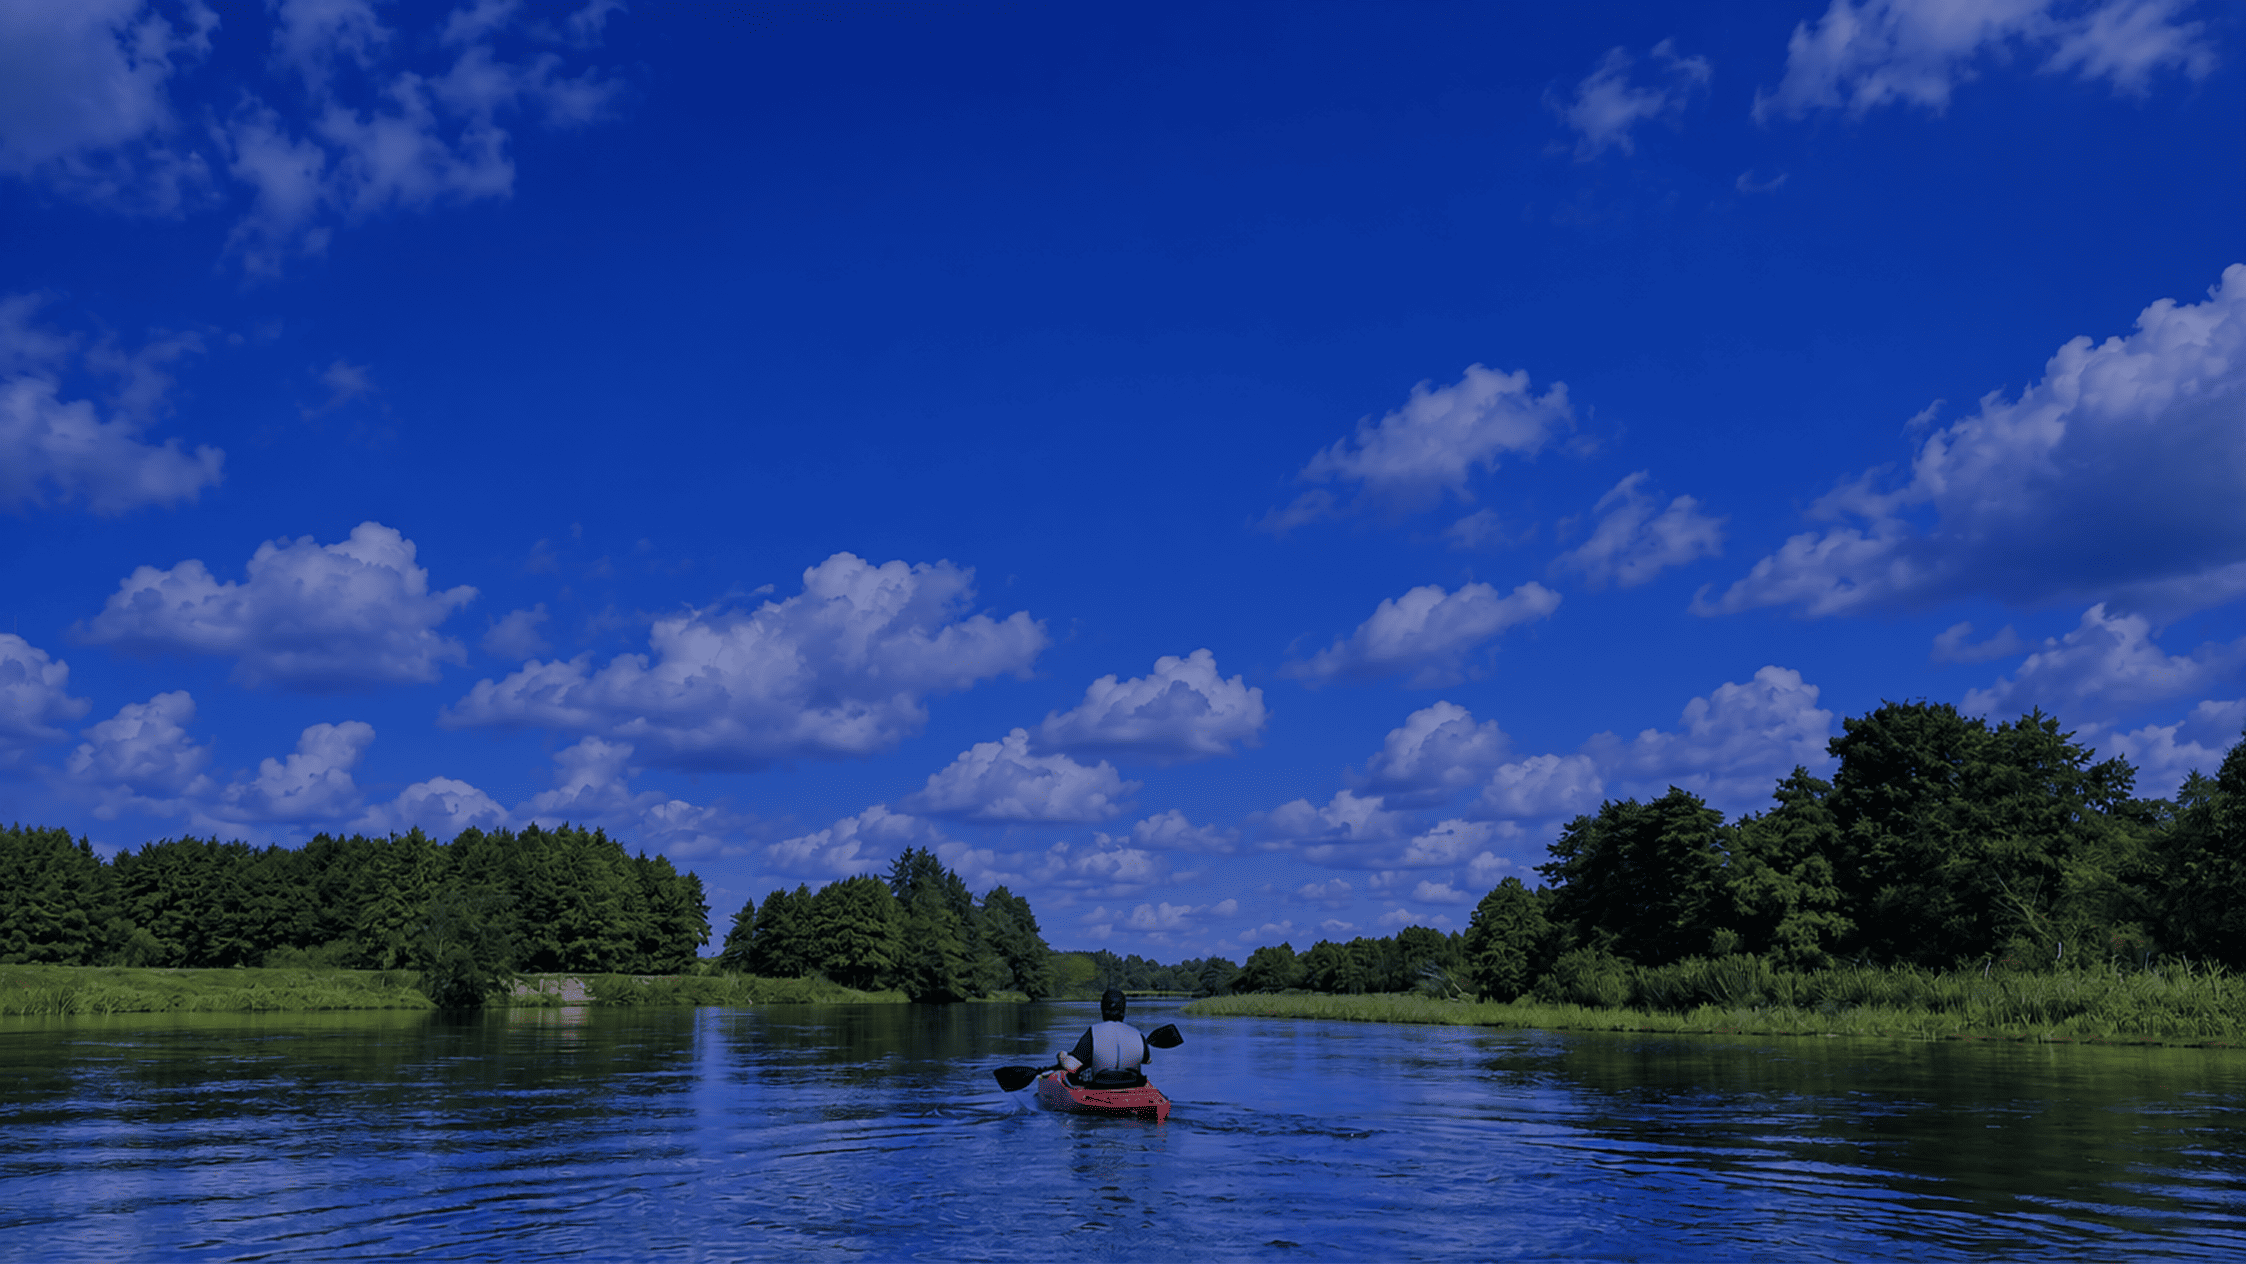
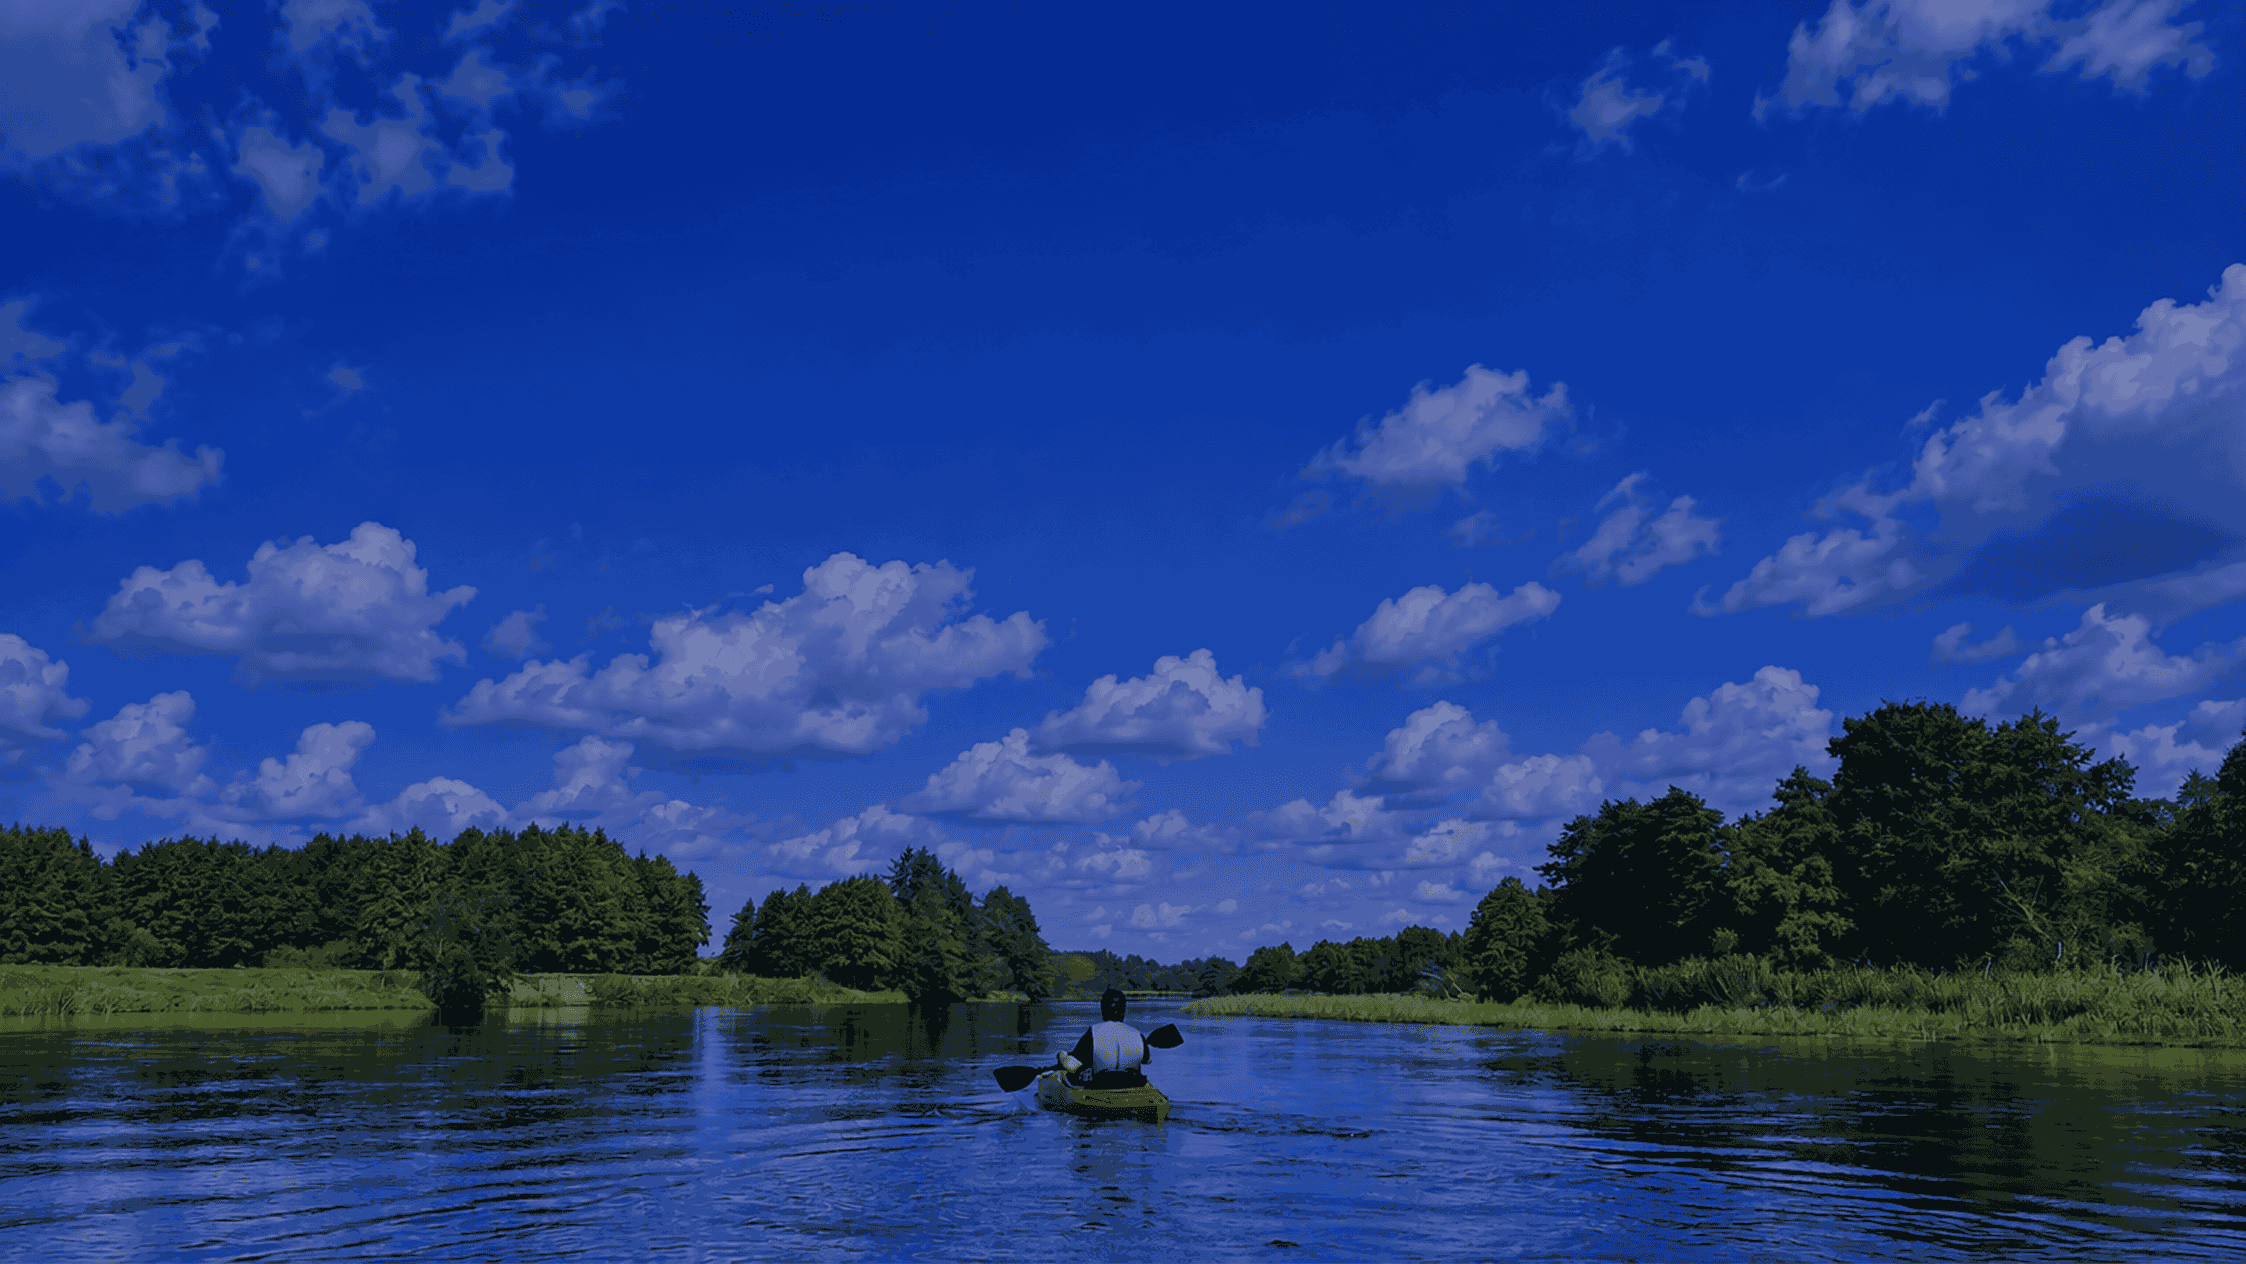
Change hero style

diff --git a/public/assets/css/main.css b/public/assets/css/main.css
@@ -921,7 +921,7 @@ li {
 ------------------------------------------- */
 
 .hero-main {
-    background: url("/assets/images/kajak2.png");
+    background: url("/assets/images/kajak22.png");
     background-size: cover;
     background-position: center;
     text-align: center;
@@ -930,11 +930,11 @@ li {
 }
 
 .light .hero-main {
-    background: url("/assets/images/kajak2.png");
+    background: url("/assets/images/kajak22.png");
 }
 
 .dark .hero-main {
-    background: url("/assets/images/kajak2.png");
+    background: url("/assets/images/kajak22.png");
 }
 
 .hero-main h1,

diff --git a/src/assets/css/main.css b/src/assets/css/main.css
@@ -921,7 +921,7 @@ li {
 ------------------------------------------- */
 
 .hero-main {
-    background: url("/assets/images/kajak2.png");
+    background: url("/assets/images/kajak22.png");
     background-size: cover;
     background-position: center;
     text-align: center;
@@ -930,11 +930,11 @@ li {
 }
 
 .light .hero-main {
-    background: url("/assets/images/kajak2.png");
+    background: url("/assets/images/kajak22.png");
 }
 
 .dark .hero-main {
-    background: url("/assets/images/kajak2.png");
+    background: url("/assets/images/kajak22.png");
 }
 
 .hero-main h1,
